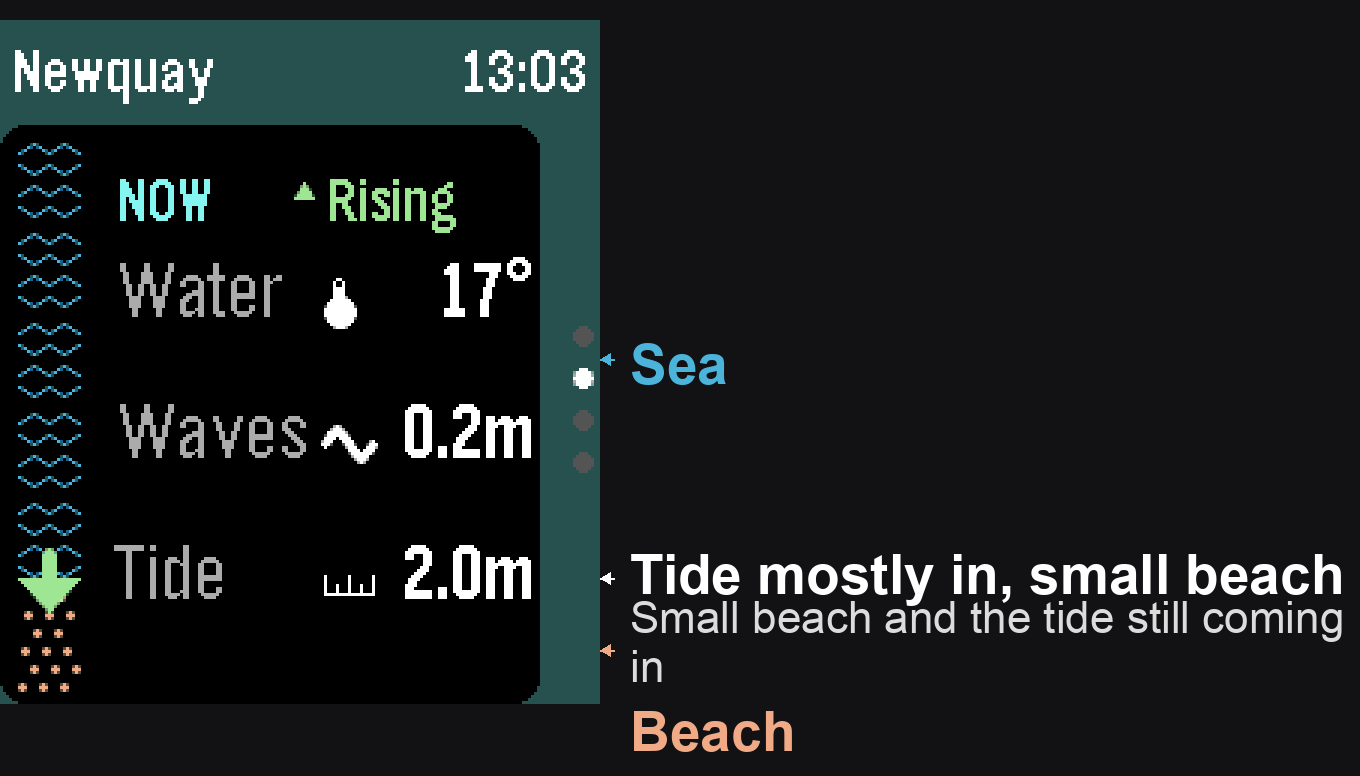
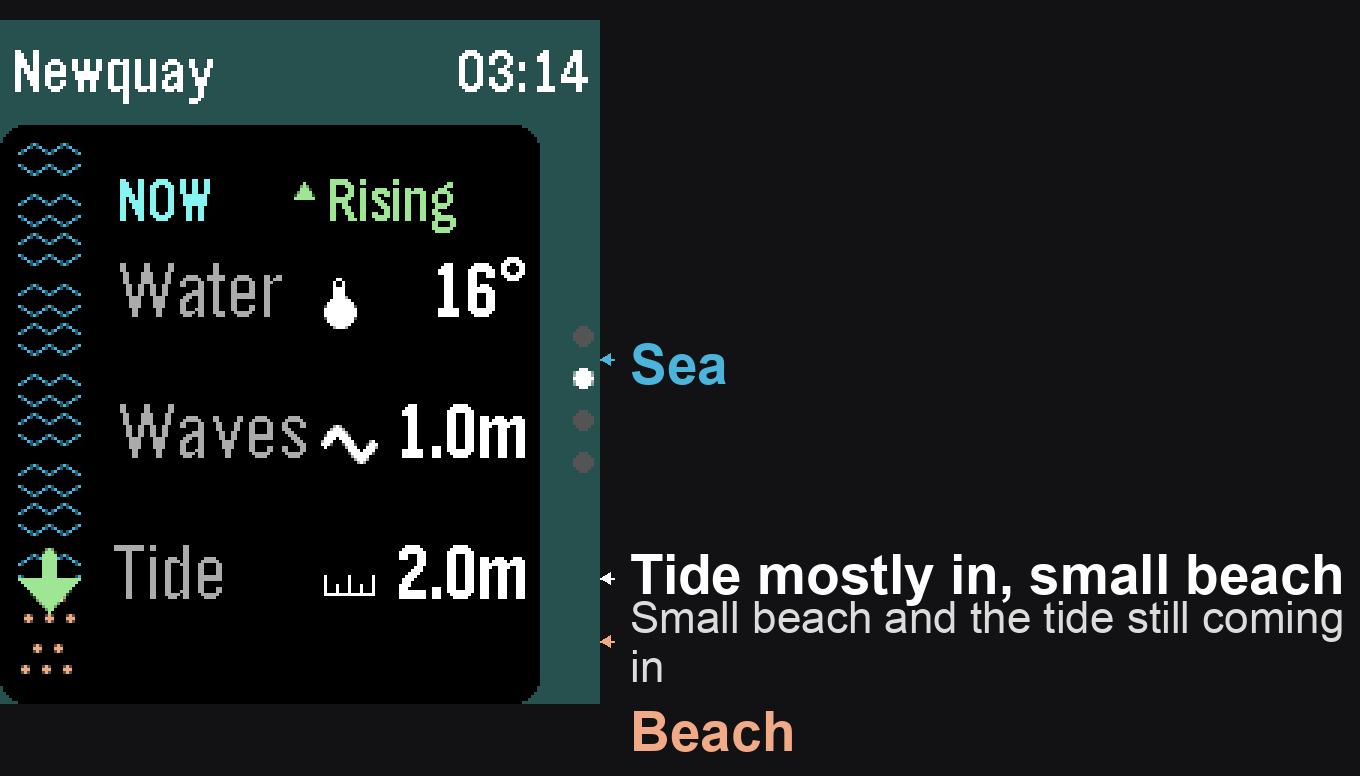
Beachometer: pair rows with 3px gaps, match Overview bar to NOW page, glance stays normal when stale; v1.1.1
Wave and sand rows are drawn in pairs separated by a 3px gap so hour
blocks read distinctly. Overview title row removed so its bar matches
the NOW page. App Glance only shows 'out of date' when no usable data.
Bump version to 1.1.1 and WHATS_NEW_ID to 2 with new text.

diff --git a/tidepebble/src/c/tidepebble.c b/tidepebble/src/c/tidepebble.c
@@ -48,8 +48,8 @@
 #define PERSIST_KEY_WHATS_NEW_SEEN 10
 
 // Bump WHATS_NEW_ID (and edit the text) to show the pop-up once after an update.
-#define WHATS_NEW_ID 1
-#define WHATS_NEW_TEXT "The beachometer arrow now tracks the tide to the minute.\n\nTidePebble returns to your watchface after two minutes idle.\n\nFull release notes in the Pebble app store."
+#define WHATS_NEW_ID 2
+#define WHATS_NEW_TEXT "Clearer separation of hour blocks on beachometer\n\nGlance text now accurate if no connection to phone"
 
 #define UNITS_OVERRIDE_AUTO 0
 #define UNITS_OVERRIDE_METRIC 1
@@ -484,7 +484,8 @@ static void prv_draw_chart(GContext *ctx, GRect frame, bool labels) {
 #define TIDE_BAR_WAVE_PERIOD 10
 #define TIDE_BAR_WAVE_AMP 3
 #define TIDE_BAR_WAVE_ROW_H 7
-#define TIDE_BAR_SAND_ROW_H 6
+#define TIDE_BAR_PAIR_GAP 3
+#define TIDE_BAR_SAND_ROW_H 7
 #define TIDE_BAR_SAND_SPACING 7
 #define TIDE_BAR_SAND_SHIFT 3
 #define TIDE_BAR_SAND_RADIUS 1
@@ -591,14 +592,22 @@ static void prv_draw_tide_bar(GContext *ctx, GRect frame) {
     bool is_sea = is_sea_seg[i];
 
     if (is_sea) {
+      // Wave rows in pairs with an extra gap after each pair, so the sea
+      // reads as hour blocks.
+      int16_t k = 0;
       for (int16_t ry = cell.origin.y + TIDE_BAR_WAVE_AMP + 2;
-           ry < cell.origin.y + cell.size.h; ry += TIDE_BAR_WAVE_ROW_H) {
+           ry < cell.origin.y + cell.size.h; ry += TIDE_BAR_WAVE_ROW_H, k++) {
+        if (k > 0 && k % 2 == 0) ry += TIDE_BAR_PAIR_GAP;
+        if (ry >= cell.origin.y + cell.size.h) break;
         prv_draw_tide_bar_wave_row(ctx, cell, ry, wave_row);
         wave_row++;
       }
     } else {
+      int16_t k = 0;
       for (int16_t ry = cell.origin.y + TIDE_BAR_SAND_RADIUS + 2;
-           ry < cell.origin.y + cell.size.h; ry += TIDE_BAR_SAND_ROW_H) {
+           ry < cell.origin.y + cell.size.h; ry += TIDE_BAR_SAND_ROW_H, k++) {
+        if (k > 0 && k % 2 == 0) ry += TIDE_BAR_PAIR_GAP;
+        if (ry >= cell.origin.y + cell.size.h) break;
         prv_draw_tide_bar_sand_row(ctx, cell, ry, sand_row);
         sand_row++;
       }
@@ -858,17 +867,24 @@ static void prv_draw_now_card(GContext *ctx, GRect frame) {
     prv_draw_tape_icon, TAPE_ICON_H, height_text);
 }
 
+// Draws the black bar backdrop + tide bar in the position shared by the NOW
+// and Overview pages; `content` is the page's content rect.
+static GRect prv_draw_shared_tide_bar(GContext *ctx, GRect bounds, GRect content) {
+  int16_t top_margin = content.origin.y;
+  GRect bar_content = GRect(content.origin.x, top_margin, content.size.w,
+    bounds.size.h - top_margin - ROUND_BOTTOM_EXTRA);
+  GRect bg_frame = GRect(0, bar_content.origin.y, bar_content.origin.x + bar_content.size.w,
+    bar_content.size.h);
+  prv_draw_card_background(ctx, bg_frame, GColorBlack);
+  return prv_draw_tide_bar_for_content(ctx, bar_content);
+}
+
 static void prv_draw_now_page(GContext *ctx, GRect bounds) {
   int16_t top_margin = 3;
   int16_t bottom_margin = PAGE_MARGIN + ROUND_BOTTOM_EXTRA;
   GRect content = GRect(PAGE_MARGIN, top_margin, bounds.size.w - PAGE_MARGIN - PAGE_DOTS_W,
     bounds.size.h - top_margin - bottom_margin);
-  GRect bar_content = GRect(content.origin.x, content.origin.y, content.size.w,
-    bounds.size.h - top_margin - ROUND_BOTTOM_EXTRA);
-  GRect bg_frame = GRect(0, bar_content.origin.y, bar_content.origin.x + bar_content.size.w,
-    bar_content.size.h);
-  prv_draw_card_background(ctx, bg_frame, GColorBlack);
-  GRect bar_frame = prv_draw_tide_bar_for_content(ctx, bar_content);
+  GRect bar_frame = prv_draw_shared_tide_bar(ctx, bounds, content);
   GRect now_card = GRect(content.origin.x + bar_frame.size.w + TIDE_BAR_GAP, content.origin.y,
     content.size.w - bar_frame.size.w - TIDE_BAR_GAP, content.size.h);
   prv_draw_now_card(ctx, now_card);
@@ -896,15 +912,11 @@ static void prv_draw_later_page(GContext *ctx, GRect bounds) {
 }
 
 static void prv_draw_overview_page(GContext *ctx, GRect bounds) {
-  prv_draw_text(ctx, "OVERVIEW", s_label_font,
-    GRect(HEADER_SIDE_INSET, 0, bounds.size.w / 2, 28), COLOR_MUTED, GTextAlignmentLeft);
-  prv_draw_text(ctx, "NEXT 24H", s_label_font,
-    GRect(bounds.size.w / 2 - 2, 0, bounds.size.w / 2 - HEADER_SIDE_INSET - 14, 28), COLOR_DIM,
-    GTextAlignmentRight);
-
-  GRect content = GRect(PAGE_MARGIN, 28, bounds.size.w - PAGE_MARGIN - PAGE_DOTS_W,
-    bounds.size.h - 30 - PBL_IF_ROUND_ELSE(28, 0));
-  GRect bar_frame = prv_draw_tide_bar_for_content(ctx, content);
+  // Same top margin/height as the NOW page so the bar matches it exactly.
+  int16_t top_margin = 3;
+  GRect content = GRect(PAGE_MARGIN, top_margin, bounds.size.w - PAGE_MARGIN - PAGE_DOTS_W,
+    bounds.size.h - top_margin - PAGE_MARGIN - ROUND_BOTTOM_EXTRA);
+  GRect bar_frame = prv_draw_shared_tide_bar(ctx, bounds, content);
   GRect chart_frame = GRect(content.origin.x + bar_frame.size.w + TIDE_BAR_GAP, content.origin.y,
     content.size.w - bar_frame.size.w - TIDE_BAR_GAP, content.size.h);
 
@@ -993,7 +1005,7 @@ static void prv_content_update_proc(Layer *layer, GContext *ctx) {
 static void prv_glance_reload_callback(AppGlanceReloadSession *session, size_t limit,
                                        void *context) {
   char buffer[64];
-  if (s_tide_count < 2 || s_is_stale) {
+  if (s_tide_count < 2 || prv_no_current_data()) {
     snprintf(buffer, sizeof(buffer), "Tide info out of date");
   } else {
     int16_t range = s_local_max - s_local_min;

diff --git a/tidepebble/src/dev_docs/architecture.md b/tidepebble/src/dev_docs/architecture.md
@@ -67,7 +67,7 @@ Interpolates current tide value linearly between hourly samples. Detects tide ev
 
 Also derives `s_local_min`/`s_local_max` (the tide range either side of "now", bounded by the nearest confirmed turning points, or by the most extreme observed sample when a turning point isn't found within the fetched window) and `s_rising`. These feed the App Glance fill-percentage below. **Important:** if `s_local_min == s_local_max` (degenerate range — e.g. right after a resync when there's no confirmed previous turning point yet), it falls back to `prv_tide_min_max()` (min/max over the *entire* fetched series) rather than dividing by a zero/near-zero range. This guard was accidentally dropped once already during a turning-point-detection rework and caused the App Glance to show a stuck "0%" — keep it whenever touching this function.
 
-**Constant coupling:** `TIDE_POINT_COUNT` (here, `30`) and `HOURS_TO_SEND` (`pkjs/index.js`, and duplicated again in `open_config.js`) must stay equal — commented cross-referencing each other. This 30 splits into `LOOKBACK_HOURS = 7` (past, hidden from the chart, see below) + 23 forward (visible). If either constant changes, keep that split in mind: the Overview page header (`"NEXT 24H"`, hardcoded in `prv_draw_overview_page`) and the event-label spacing in `prv_draw_chart` (fixed 56px-wide labels, no collision handling) were both tuned for a ~23-point *visible* window — widening the *visible forward* portion without updating both regresses to overlapping high/low time labels on screen. Widening `LOOKBACK_HOURS` alone doesn't affect this, since the chart only plots from `s_chart_start` onward (below).
+**Constant coupling:** `TIDE_POINT_COUNT` (here, `30`) and `HOURS_TO_SEND` (`pkjs/index.js`, and duplicated again in `open_config.js`) must stay equal — commented cross-referencing each other. This 30 splits into `LOOKBACK_HOURS = 7` (past, hidden from the chart, see below) + 23 forward (visible). If either constant changes, keep that split in mind: the event-label spacing in `prv_draw_chart` (fixed 56px-wide labels, no collision handling) were both tuned for a ~23-point *visible* window — widening the *visible forward* portion without updating both regresses to overlapping high/low time labels on screen. Widening `LOOKBACK_HOURS` alone doesn't affect this, since the chart only plots from `s_chart_start` onward (below).
 
 `LOOKBACK_HOURS` (`pkjs/index.js`, duplicated in `open_config.js`; no C-side equivalent by that name — see `s_chart_start` below) is currently `7`. Do not shrink it back toward `1`: with too little real history in the fetched window, `prv_compute_state`'s backward turning-point search usually finds nothing, and the fallback bound-scan collapses `s_local_min`/`s_local_max` to nearly `s_current_value` — breaking both the App Glance percentage and the beachometer gauge (see their sections below) without visibly touching the chart, so it's easy to miss in testing.
 
@@ -93,10 +93,10 @@ Three values on one row: sea temp · wave-icon + swell height · current tide he
 - Optional high/low time labels above/below plot area, fixed 56px wide, no overlap/collision handling — see the constant-coupling note above.
 
 ### Beachometer / tide bar (`prv_draw_tide_bar`, `prv_draw_tide_bar_for_content`)
-Vertical fill gauge next to the Overview chart — 6 cells, `sea_cells` of them (top-down: beach fixed at the bottom of view, sea at the horizon/top, matching how a real beach looks) rendered as sea, the rest as beach below it, where `sea_cells` is how full `s_local_min..s_local_max` currently is (the *same* range the App Glance percentage uses, see above). It is a snapshot of "now", not a forecast strip. The boundary arrow's *position* is continuous — computed from the unrounded `(s_current_value - s_local_min) / range`, so it tracks "now" to the minute rather than snapping to a cell edge like the 6-cell fill. Its glyph direction (up/down) is the *inverse* of `s_rising` — it follows the boundary's actual on-screen travel direction (down during a rise, since sea fills down from the top), not the abstract "getting fuller" flag; only its color follows `s_rising` directly. See `decisions.md` → "Beachometer (tide bar) design" for the full reasoning and a real bug this once caused (all-beach shortly after a low, from too little lookback).
+Vertical fill gauge next to the Overview chart — 6 cells, `sea_cells` of them (top-down: beach fixed at the bottom of view, sea at the horizon/top, matching how a real beach looks) rendered as sea, the rest as beach below it, where `sea_cells` is how full `s_local_min..s_local_max` currently is (the *same* range the App Glance percentage uses, see above). Within each cell, wave/sand rows are drawn in pairs with `TIDE_BAR_PAIR_GAP` (3px) after each pair so hour blocks are visually distinct. Both pages share `prv_draw_shared_tide_bar`, and the Overview has no title row, so the bar is identical on both. It is a snapshot of "now", not a forecast strip. The boundary arrow's *position* is continuous — computed from the unrounded `(s_current_value - s_local_min) / range`, so it tracks "now" to the minute rather than snapping to a cell edge like the 6-cell fill. Its glyph direction (up/down) is the *inverse* of `s_rising` — it follows the boundary's actual on-screen travel direction (down during a rise, since sea fills down from the top), not the abstract "getting fuller" flag; only its color follows `s_rising` directly. See `decisions.md` → "Beachometer (tide bar) design" for the full reasoning and a real bug this once caused (all-beach shortly after a low, from too little lookback).
 
 ### App Glance (`prv_glance_reload_callback`, `prv_update_glance`)
-Populates the pin/launcher subtitle (e.g. "Tide 40% in • 14°") via `app_glance_add_slice`. Fill percentage is `(s_current_value - s_local_min) * 100 / (s_local_max - s_local_min)`, flipped to `100 - fill` when falling, then rounded **up** to the nearest 10% (not nearest — a `fill_percent` of 1-9% displays as 10%, ceiling not round). Shows "Tide info out of date" if `s_is_stale` or no data yet. `prv_update_glance()` is called from `prv_set_text()`, i.e. on every redraw — relies on `s_local_min`/`s_local_max` from `prv_compute_state` never being degenerate (see above).
+Populates the pin/launcher subtitle (e.g. "Tide 40% in • 14°") via `app_glance_add_slice`. Fill percentage is `(s_current_value - s_local_min) * 100 / (s_local_max - s_local_min)`, flipped to `100 - fill` when falling, then rounded **up** to the nearest 10% (not nearest — a `fill_percent` of 1-9% displays as 10%, ceiling not round). Shows "Tide info out of date" only if there is no data yet or `prv_no_current_data()` (stale but still-valid cached data shows the normal text, extrapolated by minutes). `prv_update_glance()` is called from `prv_set_text()`, i.e. on every redraw — relies on `s_local_min`/`s_local_max` from `prv_compute_state` never being degenerate (see above).
 
 ### Units
 Reads Pebble's own measurement system preference (`HealthMetricWalkedDistanceMeters`). Metric: `m` with one decimal. Imperial: `'` with one decimal (converts via ×328084/1000000). Falls back to metric if health service unavailable.

diff --git a/tidepebble/src/dev_docs/current-state.md b/tidepebble/src/dev_docs/current-state.md
@@ -9,10 +9,10 @@
 - NOW card: current tide height, rising/falling arrow, swell height (scalar), sea temp.
 - Event cards (NEXT/THEN/LATER): time-to-tide, tide height, countdown.
 - Overview chart: 24h line, current position dot, high/low arrows with time labels.
-- Beachometer (tide bar): 6-cell fill gauge next to the Overview chart, showing how full the current local tidal range is (not a forecast). See `decisions.md`.
+- Beachometer (tide bar): 6-cell fill gauge (rows drawn in pairs with a 3px gap, so each hour block reads separately) at the same size/position on the Overview and NOW pages, showing how full the current local tidal range is (not a forecast). See `decisions.md`.
 - "No data available" page replaces the normal pages once synced data has run out (`prv_no_current_data`: "now" outside the fetched window, or series < 2 points). Before the first-ever sync the original empty page shows. Distinct from `s_is_stale`, which only warns.
 - One-time "What's new" pop-up on the first launch after an update (`WHATS_NEW_ID`).
-- App Glance: pin/launcher subtitle showing tide fill % (in/out) and sea temp, or "Tide info out of date" when stale.
+- App Glance: pin/launcher subtitle showing tide fill % (in/out) and sea temp, or "Tide info out of date" only when there is no usable data (stale-but-cached data still shows the normal text).
 - Settings: GPS mode (phone location) or manual location search via Open-Meteo geocoding.
 - Unit system follows Pebble's own metric/imperial preference.
 - 12h/24h clock follows Pebble's own clock preference.

diff --git a/tidepebble/src/dev_docs/decisions.md b/tidepebble/src/dev_docs/decisions.md
@@ -75,3 +75,7 @@
 **Chose:** `localStorage` with key `tide_selected_location_v1`.  
 **Why:** Pebble JS localStorage survives app restarts. The `_v1` suffix allows future schema migration without collision.  
 **Trade-off:** Cleared if the user reinstalls the app.
+
+## Beachometer hour-block separation and Overview title removal
+**Chose:** Wave and sand rows are drawn in pairs with a 3px gap after each pair (`TIDE_BAR_PAIR_GAP`), rather than divider lines between cells (tried; too heavy). Sand row pitch raised 6 -> 7px to match the wave rows. The Overview "OVERVIEW" / "NEXT 24H" title row was removed so its bar matches the NOW page exactly (shared `prv_draw_shared_tide_bar`).  
+**Also:** the App Glance no longer switches to "Tide info out of date" merely because data is stale; only when there is no usable data.
